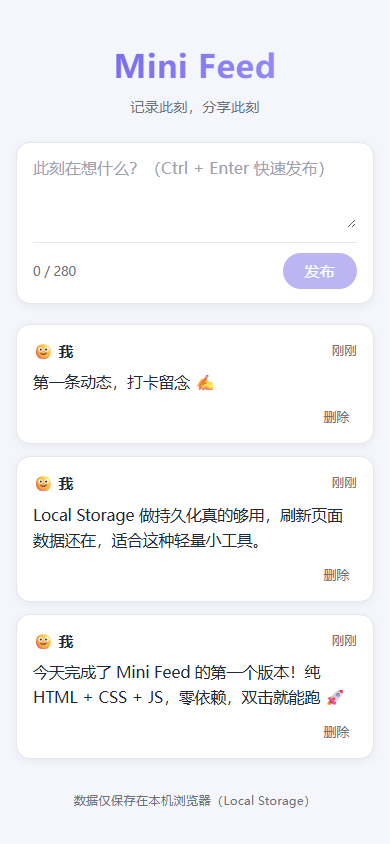
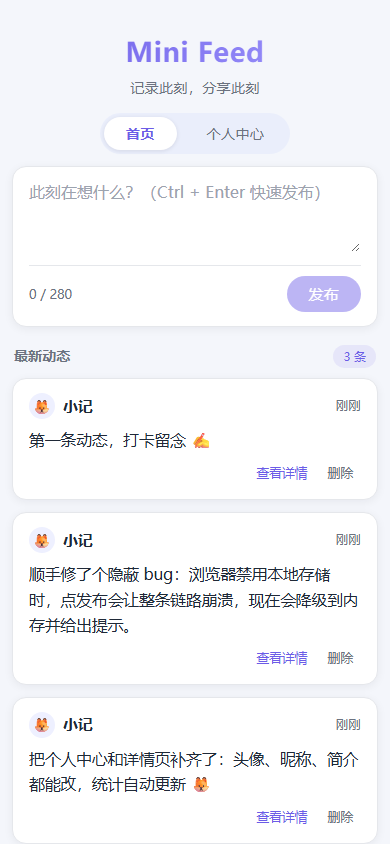
docs: update README with new features, screenshots and FAQ

diff --git a/README.md b/README.md
@@ -2,7 +2,7 @@
 
 一个极简的社交动态（micro-feed）应用：纯 HTML + CSS + JavaScript 实现，零依赖、零构建，数据通过浏览器 **Local Storage** 本地化存储，刷新不丢失。
 
-> 双击 `index.html` 即可运行，无需任何服务器与安装步骤。
+> 建议通过本地服务器访问（如 `python -m http.server`），部分浏览器直接用 `file://` 打开时会禁用本地存储，详见 [常见问题](#-常见问题)。
 
 ## 📌 项目需求说明
 
@@ -10,64 +10,99 @@
 | --- | --- |
 | 纯 HTML + CSS + JavaScript，不使用任何框架 | ✅ 原生三件套，零依赖 |
 | 发布动态 | ✅ 文本输入 + 发布按钮，支持 Ctrl/Cmd + Enter 快捷键 |
-| 查看动态 | ✅ 时间线倒序展示，显示相对时间（刚刚 / N 分钟前 / …） |
+| 查看动态 | ✅ 时间线倒序展示 + 单条动态详情页（完整正文 / 精确时间 / 字数） |
 | 本地化数据存储 | ✅ `localStorage` 持久化，关闭浏览器后数据保留 |
-| 删除动态 | ✅ 每条动态可单独删除（带确认提示） |
+| 删除动态 | ✅ 列表与详情页均可删除（带确认提示） |
+| 个人中心 | ✅ 头像 / 昵称 / 简介编辑、数据统计、我的动态、清空数据 |
 | 最小可用 | ✅ 单页应用，三个文件即可完整运行 |
 
-## ✨ 功能清单（V1）
+## ✨ 功能清单（V1.1）
 
-- ✏ **发布**：多行文本输入，280 字上限，实时字数统计，空内容禁止发布
-- 📜 **时间线**：新动态置顶，卡片式展示，相对时间格式化
-- 💾 **持久化**：所有数据存于 `localStorage`（键：`minifeed.posts.v1`）
-- 🗑 **删除**：单条删除，二次确认防误触
-- 🛡 **安全**：使用 `textContent` 渲染用户内容，天然防 XSS
-- 📱 **响应式**：640px 居中布局，移动端友好
+**🏠 首页**
+- ✏ **发布**：多行文本输入，280 字上限，实时字数统计，空内容禁止发布，发布后新卡片高亮
+- 📜 **时间线**：新动态置顶，头像 + 昵称 + 相对时间（刚刚 / N 分钟前 / …），顶部显示动态总数
+- 👀 **查看详情**：点击卡片或「查看详情」进入详情页，展示完整正文、精确发布时间与字数
+- 🗑 **删除**：列表单条删除，二次确认防误触
+
+**👤 个人中心**
+- 🖼 **资料编辑**：昵称（≤20 字）、简介（≤60 字）、10 款头像 emoji 可选，保存后全局同步
+- 📊 **数据统计**：动态数 / 累计字数 / 使用天数（自动计算）
+- 📝 **我的动态**：独立列表，可删除或查看详情
+- 🧹 **清空数据**：一键清除所有动态与资料（带确认提示）
+
+**🔧 稳健性**
+- 💾 **存储降级**：`localStorage` 被禁用时自动降级为内存存储并给出提示条，不会因异常导致发布失败
+- 🛡 **安全**：用户内容统一通过 `textContent` 渲染，天然防 XSS
+- 📱 **响应式**：640px 居中布局，移动端自适应
+- ⌨ **快捷键**：Ctrl/Cmd + Enter 发布，Esc 关闭表单 / 返回列表
 
 ## 🗂 项目结构
 
 ```
 mini-feed-20261113/
-├── index.html      # 页面结构
+├── index.html      # 页面结构（首页 / 个人中心 / 详情 三视图）
 ├── style.css       # 样式（卡片式 UI，浅色主题）
-├── app.js          # 逻辑（发布 / 查看 / 删除 / 持久化）
+├── app.js          # 逻辑（存储层 / 渲染 / 视图切换 / 业务操作）
 ├── screenshots/    # 运行效果截图
 └── README.md
 ```
 
 ## 🚀 本地运行
 
-方式一：直接双击 `index.html` 用浏览器打开。
-
-方式二：使用任意静态服务器（可选）：
+推荐使用静态服务器：
 
 ```bash
-npx serve .
-# 或
 python -m http.server 8000
+# 或
+npx serve .
 ```
+
+然后访问 `http://localhost:8000`。
+
+也可以直接双击 `index.html` 打开（若浏览器限制 `file://` 的本地存储，页面顶部会提示数据仅本次会话有效）。
 
 ## 📸 实现效果
 
-**桌面端效果**
+**首页（桌面端）**
 
-![桌面端效果](screenshots/desktop.png)
+![首页效果](screenshots/desktop.png)
 
-**移动端效果**
+**个人中心**
+
+![个人中心效果](screenshots/profile.png)
+
+**动态详情**
+
+![详情页效果](screenshots/detail.png)
+
+**移动端**
 
 ![移动端效果](screenshots/mobile.png)
 
+## ❓ 常见问题
+
+**Q：双击打开后，页面只有发布框，发布的内容不显示？**
+A：这是浏览器对 `file://` 协议的本地存储限制导致的（Chrome/Edge 部分安全策略下 `localStorage` 访问会被直接拒绝）。
+V1.1 已修复：存储不可用时会自动降级为内存模式并在页面顶部提示，发布与查看均正常，只是关闭页面后数据不保留。
+如需真正持久化，请用 `python -m http.server 8000` 以 `http://localhost:8000` 访问。
+
 ## 🛣 后续迭代路线（Roadmap）
 
-V1 保持最小可用，以下功能与现有架构不冲突，可逐步叠加：
+以下功能与现有架构不冲突，可逐步叠加：
 
+- [x] 个人资料：昵称、简介、头像
+- [x] 动态详情页
 - [ ] 编辑已发布的动态
 - [ ] 点赞 / 收藏
 - [ ] 图片附件（Base64 存入 Local Storage）
 - [ ] 动态搜索与标签
 - [ ] 数据导出 / 导入（JSON）
 - [ ] 深色模式切换
-- [ ] 多用户昵称与头像
+
+## 📝 版本记录
+
+- **V1.1（2026-11-13）**：修复浏览器禁用本地存储时「发布后无内容」的问题（存储降级 + 提示条）；新增个人中心（资料编辑 / 统计 / 我的动态 / 清空数据）；新增动态详情页；新增动态计数与发布高亮。
+- **V1.0（2026-11-13）**：首个可用版本，支持发布、时间线查看、删除与 `localStorage` 持久化。
 
 ## 📄 说明
 
